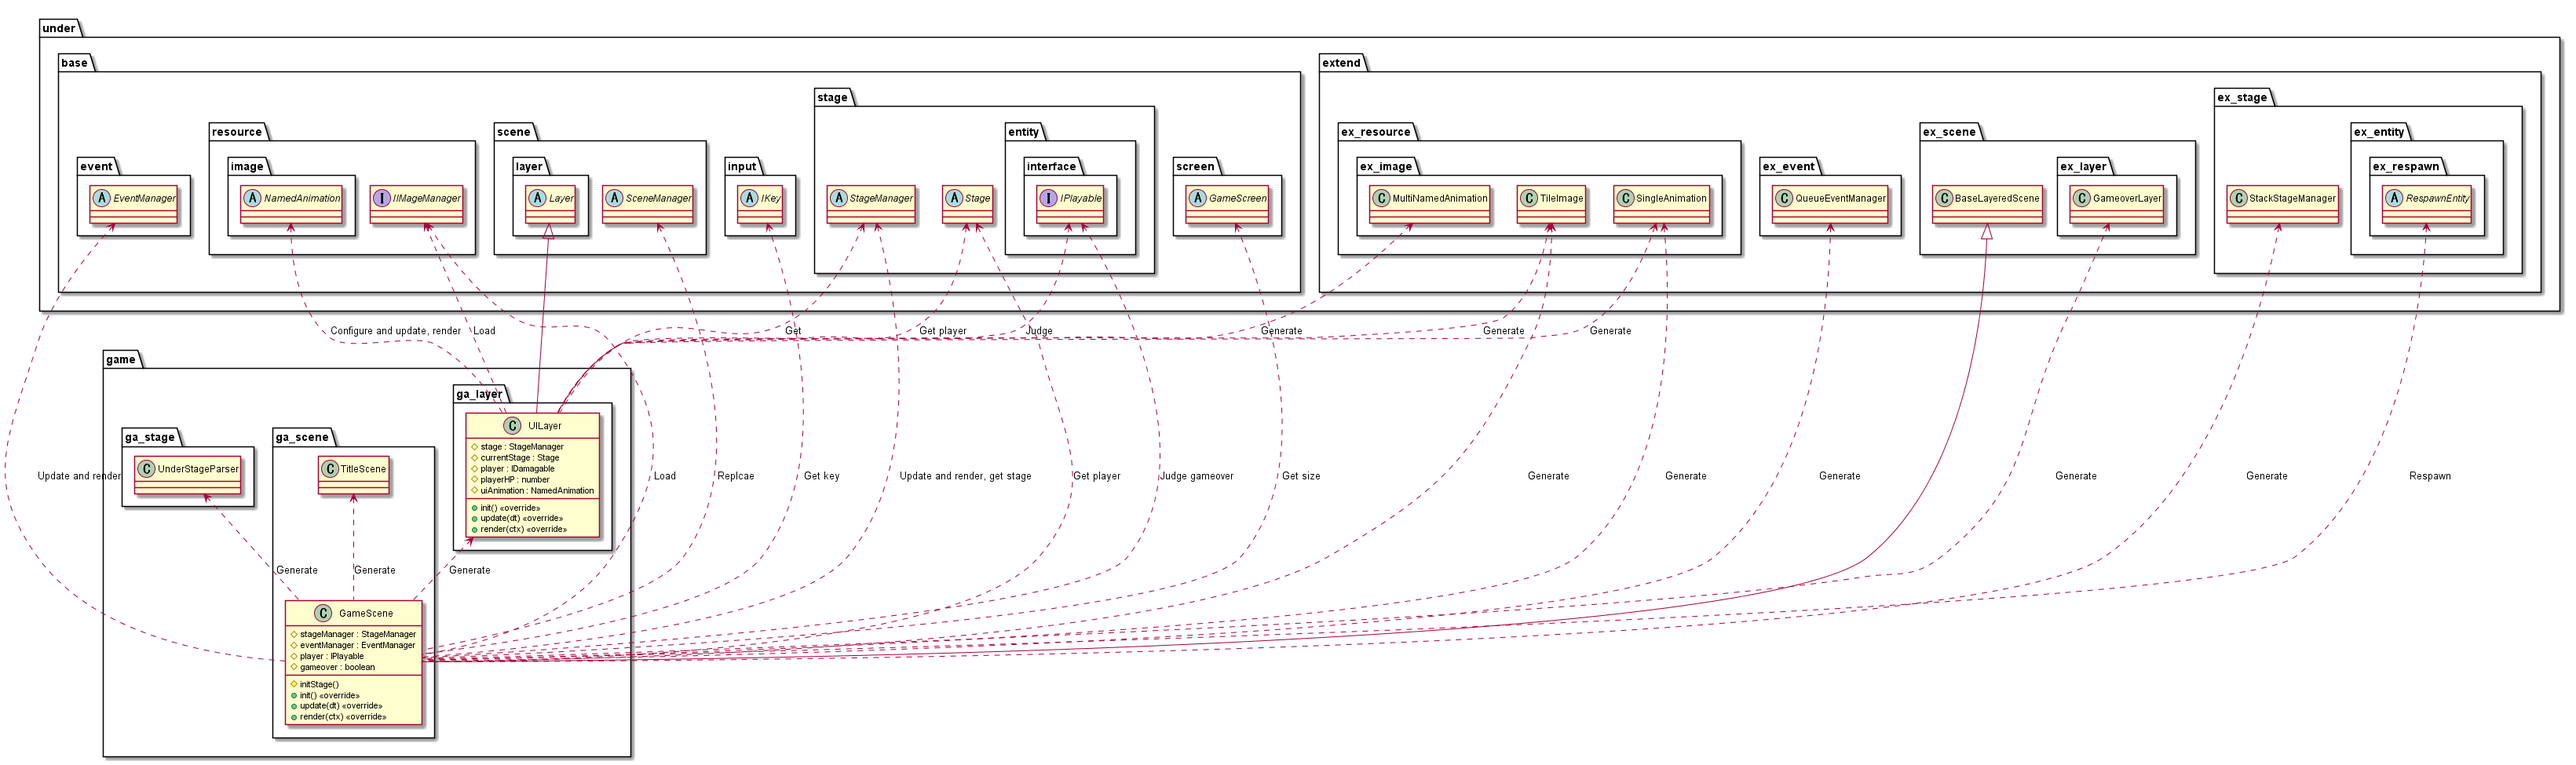
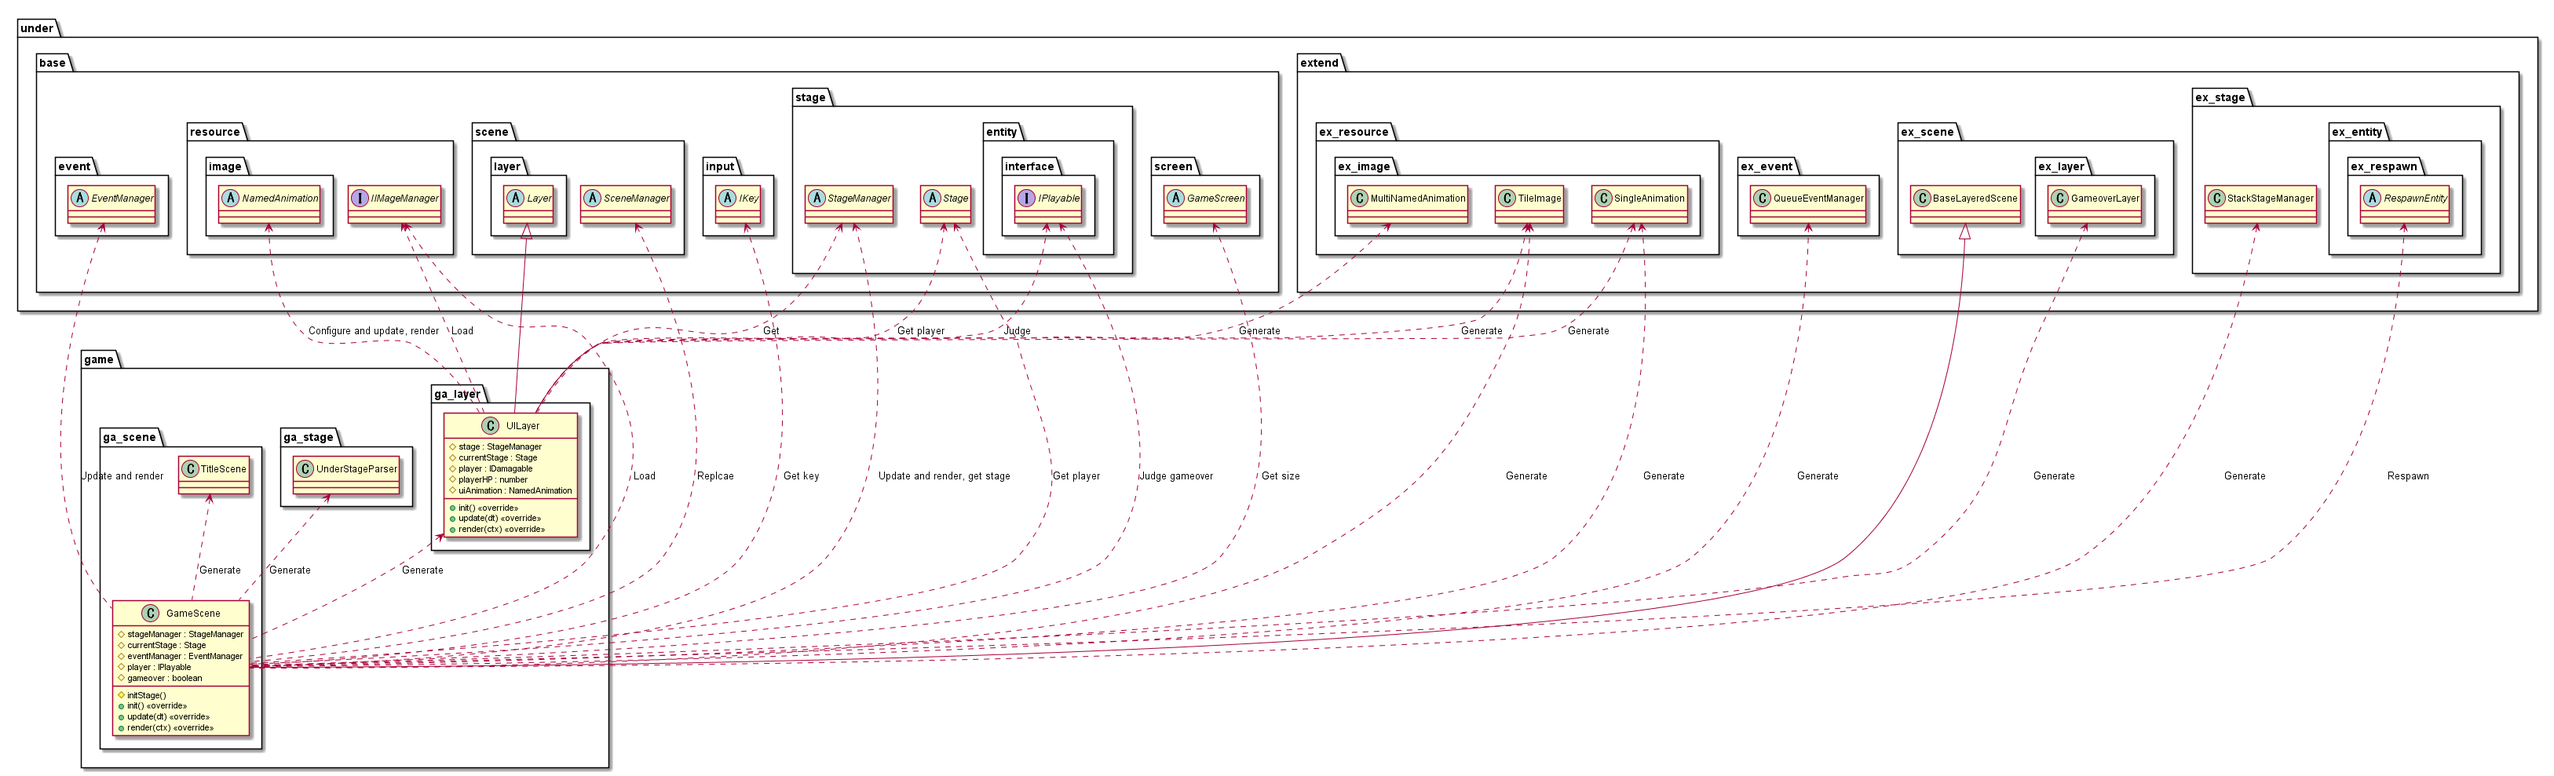
Fix game scene to restart

diff --git a/src/res/js/game/scene/GameScene.js b/src/res/js/game/scene/GameScene.js
@@ -20,6 +20,12 @@ class GameScene extends BaseLayeredScene { // eslint-disable-line  no-unused-var
          * @type {StageManager}
          */
         this.stageManager = null;
+        /**
+         * Current stage instance
+         * @protected
+         * @type {Stage}
+         */
+        this.currentStage = null;
 
         /**
          * Event manager
@@ -50,6 +56,7 @@ class GameScene extends BaseLayeredScene { // eslint-disable-line  no-unused-var
     initStage() {
         this.gameover = false;
         // set player
+        this.currentStage = this.stageManager.getStage();
         this.player = this.stageManager.getStage().getEntitiesByInterface(IPlayable).find((it) => !it.isGameover());
 
         // initialize ui layer
@@ -102,6 +109,7 @@ class GameScene extends BaseLayeredScene { // eslint-disable-line  no-unused-var
 
         this.stageManager.update(dt);
         super.update(dt);
+        // judge game over
         if (this.gameover) {
             // retry
             if (Input.key.isPress(Input.key.yes())) {
@@ -117,6 +125,11 @@ class GameScene extends BaseLayeredScene { // eslint-disable-line  no-unused-var
             } else if (Input.key.isPress(Input.key.no())) {
                 SceneManager.it.replaceScene(new TitleScene());
             }
+        }
+        // check transtion of stage
+        if (this.stageManager.getStage() !== this.currentStage) {
+            this.currentStage = this.stageManager.getStage();
+            this.player = this.stageManager.getStage().getEntitiesByInterface(IPlayable).find((it) => !it.isGameover());
         }
 
         // update event
